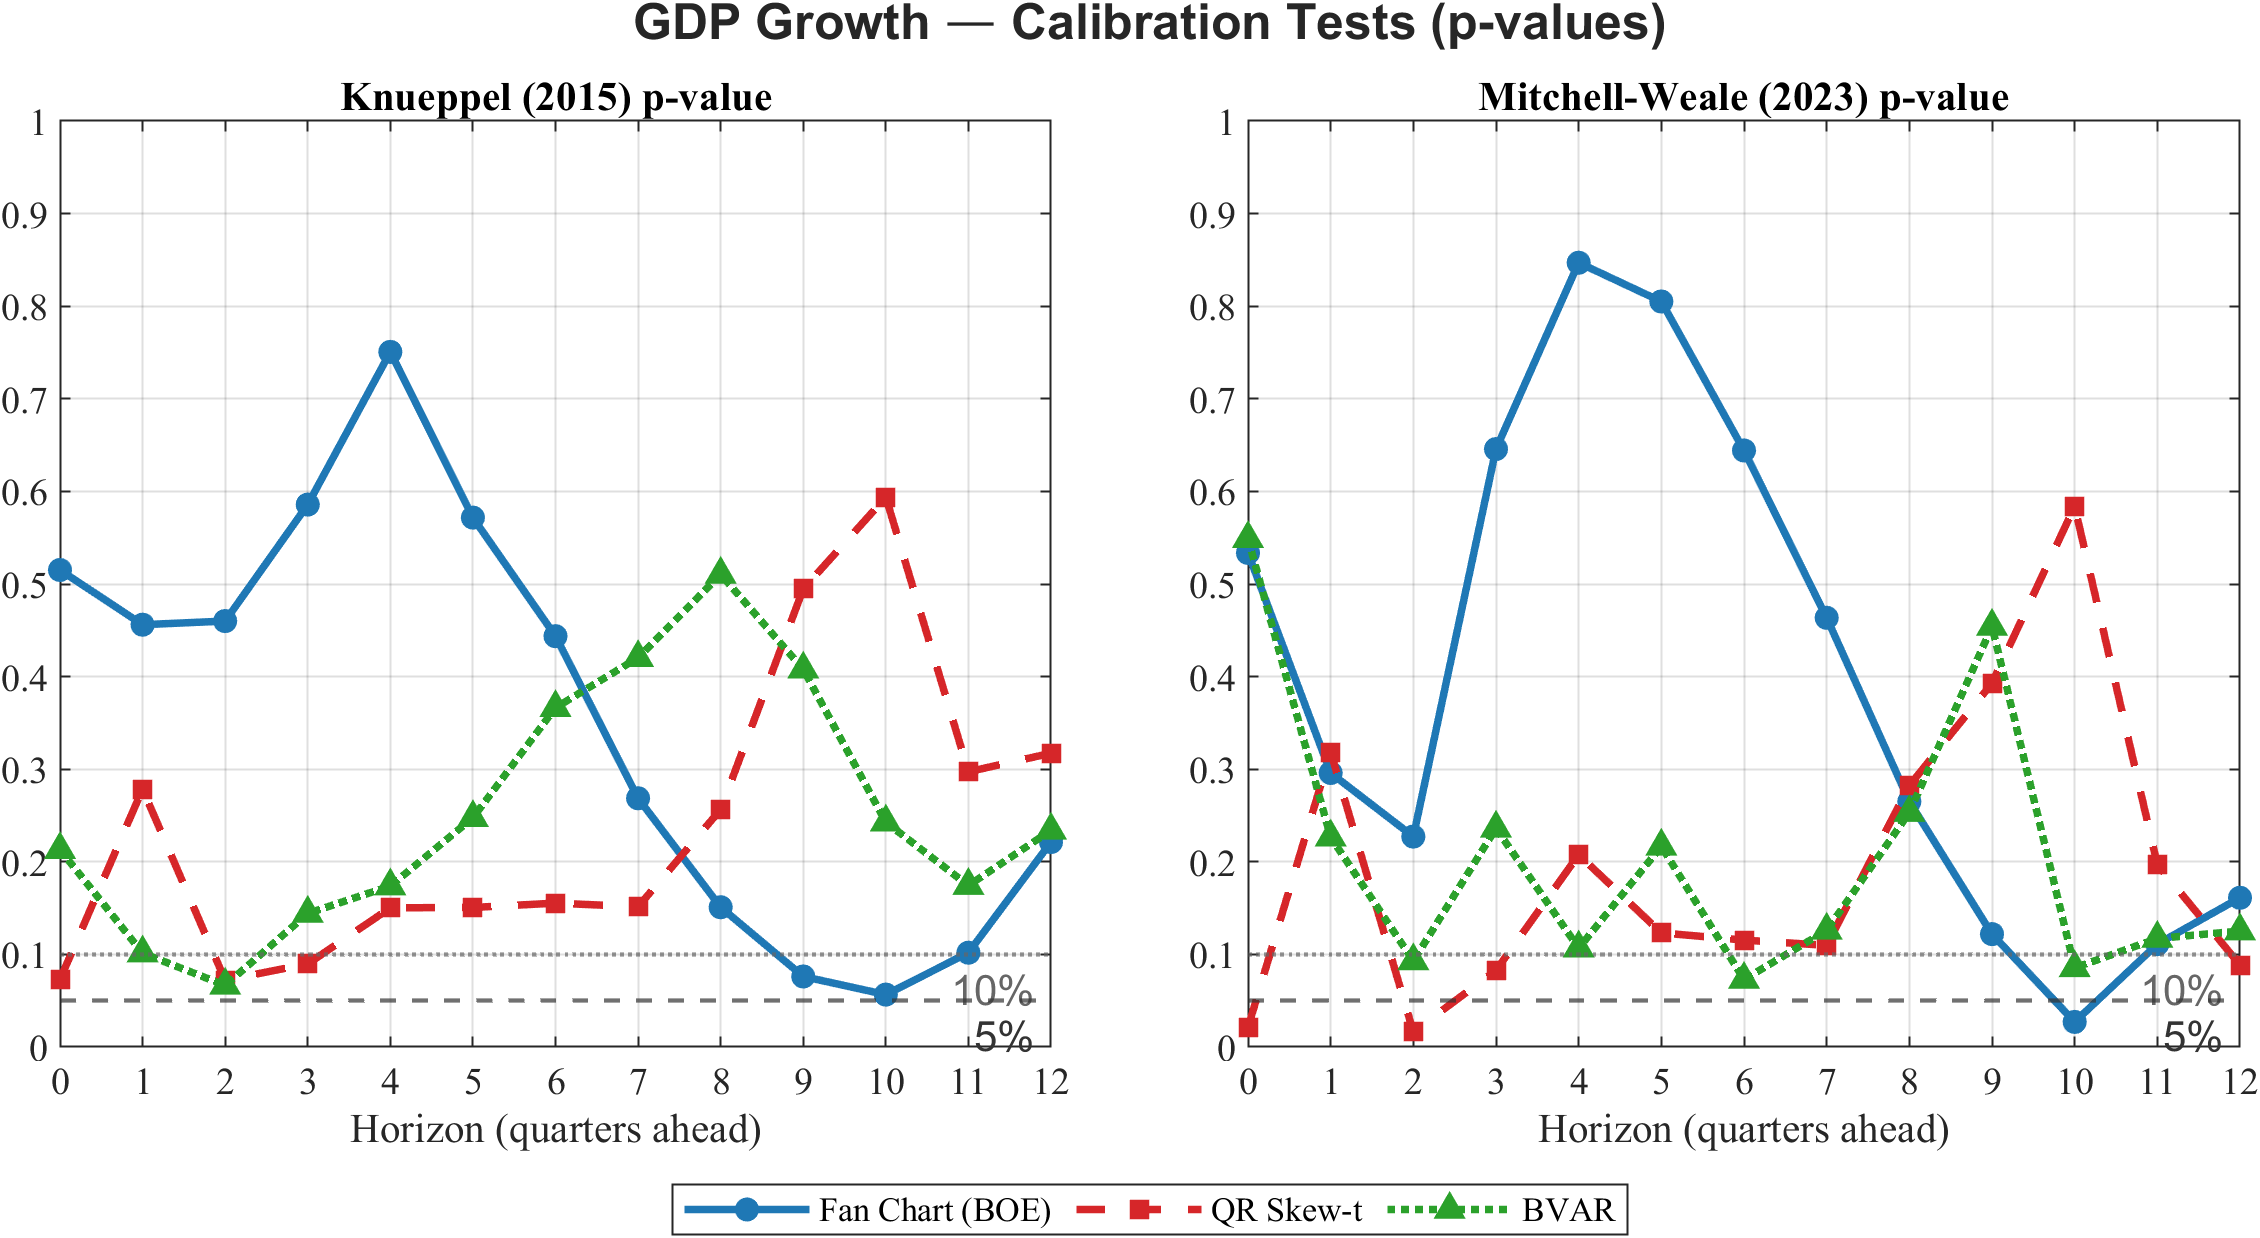
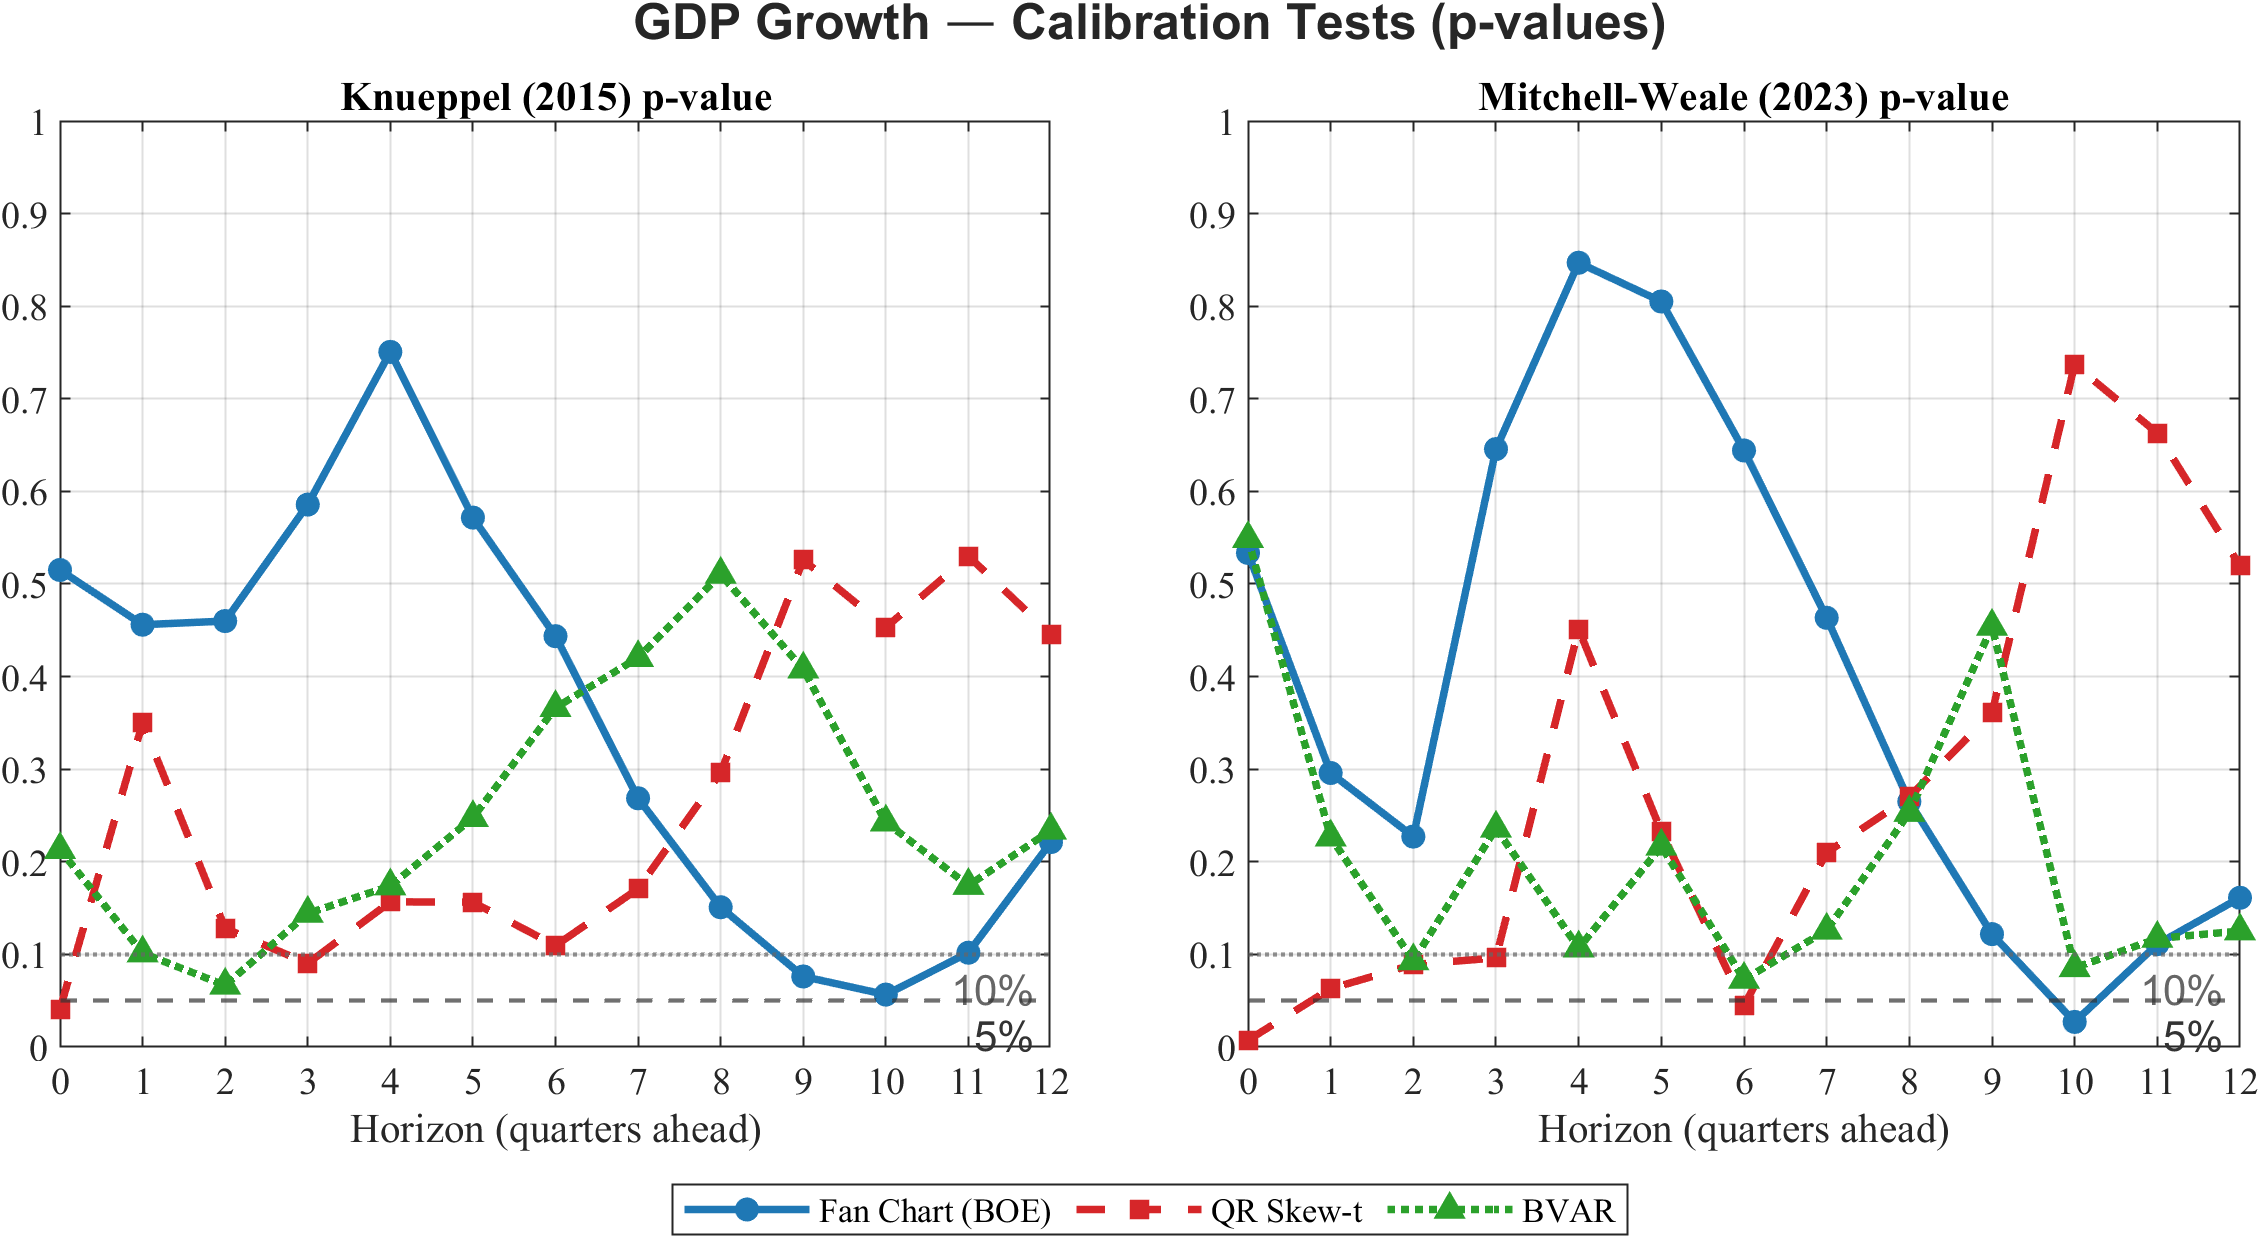
Add files via upload

diff --git a/IaR_GaR_April_2026/Outputs/forecast_evaluation/table_fcst_eval_growth.tex b/IaR_GaR_April_2026/Outputs/forecast_evaluation/table_fcst_eval_growth.tex
@@ -9,40 +9,40 @@
 Horizon & \textbf{Fan\;Chart\;(BOE)} & \textbf{QR\;Skew-t} & \textbf{BVAR} \\
 \midrule
 \multicolumn{4}{l}{\textit{Knueppel (2015) p-value}} \\
-$h=0$ & 0.515 & 0.073* & 0.213 \\
-$h=1$ & 0.456 & 0.279 & 0.101 \\
-$h=2$ & 0.460 & 0.072* & 0.067* \\
+$h=0$ & 0.515 & 0.041** & 0.213 \\
+$h=1$ & 0.456 & 0.350 & 0.101 \\
+$h=2$ & 0.460 & 0.128 & 0.067* \\
 $h=3$ & 0.586 & 0.090* & 0.144 \\
-$h=4$ & 0.751 & 0.150 & 0.174 \\
-$h=8$ & 0.151 & 0.256 & 0.510 \\
-$h=12$ & 0.221 & 0.317 & 0.234 \\
+$h=4$ & 0.751 & 0.157 & 0.174 \\
+$h=8$ & 0.151 & 0.296 & 0.510 \\
+$h=12$ & 0.221 & 0.446 & 0.234 \\
 \addlinespace
 \multicolumn{4}{l}{\textit{Mitchell-Weale p-value}} \\
-$h=0$ & 0.534 & 0.021** & 0.549 \\
-$h=1$ & 0.296 & 0.318 & 0.227 \\
-$h=2$ & 0.227 & 0.016** & 0.093* \\
-$h=3$ & 0.646 & 0.083* & 0.236 \\
-$h=4$ & 0.847 & 0.208 & 0.107 \\
-$h=8$ & 0.265 & 0.282 & 0.253 \\
-$h=12$ & 0.161 & 0.089* & 0.125 \\
+$h=0$ & 0.534 & 0.007*** & 0.549 \\
+$h=1$ & 0.296 & 0.063* & 0.227 \\
+$h=2$ & 0.227 & 0.089* & 0.093* \\
+$h=3$ & 0.646 & 0.096* & 0.236 \\
+$h=4$ & 0.847 & 0.451 & 0.107 \\
+$h=8$ & 0.265 & 0.270 & 0.253 \\
+$h=12$ & 0.161 & 0.520 & 0.125 \\
 \addlinespace
 \multicolumn{4}{l}{\textit{CRPS (mean)}} \\
-$h=0$ & 0.566 & 0.170 & 0.279 \\
-$h=1$ & 0.684 & 0.642 & 0.629 \\
-$h=2$ & 0.833 & 1.026 & 0.979 \\
-$h=3$ & 1.036 & 1.270 & 1.276 \\
-$h=4$ & 1.199 & 1.376 & 1.483 \\
-$h=8$ & 0.833 & 1.102 & 1.326 \\
-$h=12$ & 0.681 & 0.918 & 1.087 \\
+$h=0$ & 0.566 & 0.168 & 0.279 \\
+$h=1$ & 0.684 & 0.627 & 0.629 \\
+$h=2$ & 0.833 & 1.004 & 0.979 \\
+$h=3$ & 1.036 & 1.190 & 1.276 \\
+$h=4$ & 1.199 & 1.252 & 1.483 \\
+$h=8$ & 0.833 & 0.986 & 1.326 \\
+$h=12$ & 0.681 & 0.821 & 1.087 \\
 \addlinespace
 \multicolumn{4}{l}{\textit{wCRPS left tail (mean)}} \\
-$h=0$ & 0.189 & 0.055 & 0.096 \\
-$h=1$ & 0.245 & 0.219 & 0.208 \\
-$h=2$ & 0.307 & 0.349 & 0.317 \\
-$h=3$ & 0.384 & 0.445 & 0.405 \\
-$h=4$ & 0.451 & 0.495 & 0.464 \\
-$h=8$ & 0.276 & 0.352 & 0.362 \\
-$h=12$ & 0.191 & 0.318 & 0.328 \\
+$h=0$ & 0.189 & 0.054 & 0.096 \\
+$h=1$ & 0.245 & 0.217 & 0.208 \\
+$h=2$ & 0.307 & 0.345 & 0.317 \\
+$h=3$ & 0.384 & 0.419 & 0.405 \\
+$h=4$ & 0.451 & 0.462 & 0.464 \\
+$h=8$ & 0.276 & 0.345 & 0.362 \\
+$h=12$ & 0.191 & 0.301 & 0.328 \\
 \bottomrule
 \end{tabular}
 \begin{tablenotes}\small
